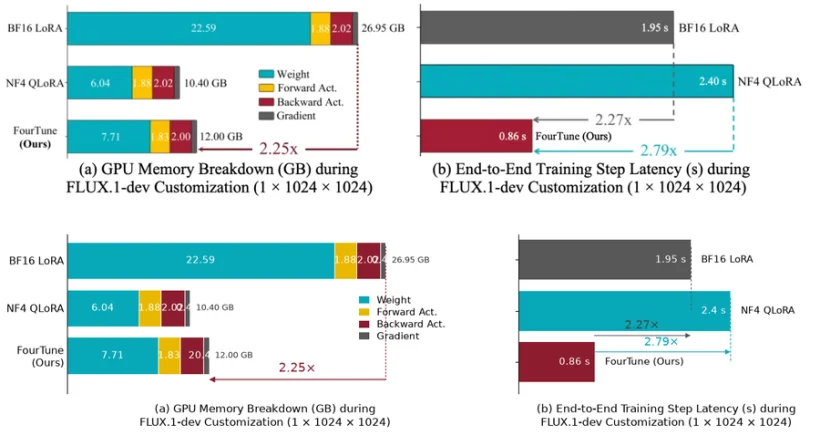
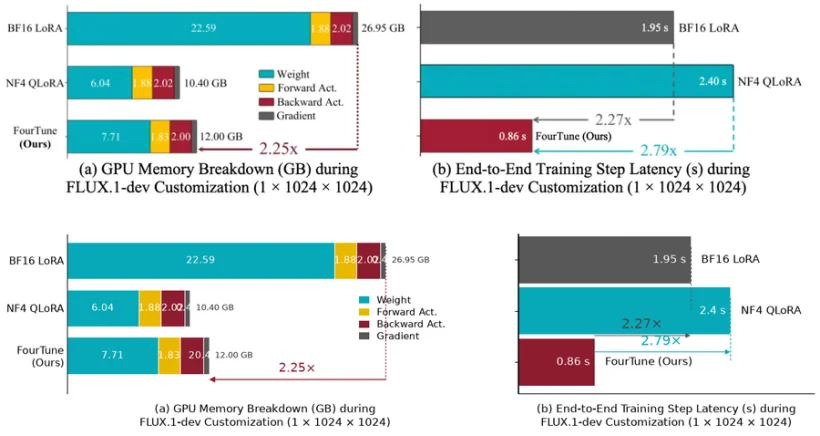
improve(replicas): 第五十二轮 —— 01 右面板补密度
左右分区探针：
  原图 左 0.306 / 右 0.346
  修前 左 0.292 / 右 0.254  ← 右面板只有 73%
  现在 左 0.292 / 右 0.299  ← 右面板 86%

改动（面板 b）：
- 柱高 0.78 → 0.92
- 柱内数值 11 → 12.5、右侧类别标签 11 → 12.5
- 倍数标注 13 → 15（2.27× / 2.79×）
- 补左轴线 linewidth 1.4 + 刻度 length 4

整体墨迹 88% → 95%

diff --git a/tools/figlab/replicas.py b/tools/figlab/replicas.py
@@ -121,20 +121,22 @@ def fig01():
     # ---- (b) 端到端延迟
     lat = [("FourTune (Ours)", 0.86, DRED), ("NF4 QLoRA", 2.40, TEAL), ("BF16 LoRA", 1.95, GRAY)]
     for y, (lab, v, c) in zip([0, 1, 2], lat):
-        ax2.barh(y, v, height=0.78, color=c, edgecolor="none")
+        ax2.barh(y, v, height=0.92, color=c, edgecolor="none")
         ax2.text(v - 0.05, y, ("%g s" % v), ha="right", va="center",
-                 color="white", fontsize=11)
+                 color="white", fontsize=12.5)
     # 参考图：类别标签在条形右侧
     ax2.set_yticks([0, 1, 2], [])
     ax2.set_xlim(0, 3.35)
     ax2.set_ylim(-0.62, 2.5)
     ax2.set_xticks([])
-    for sp in ("top", "right", "bottom"):
+    for sp in ("top", "right"):
         ax2.spines[sp].set_visible(False)
+    ax2.spines["left"].set_linewidth(1.4)
+    ax2.tick_params(axis="y", length=4)
     for y, lab in [(0, "FourTune (Ours)"), (1, "NF4 QLoRA"), (2, "BF16 LoRA")]:
         val = {0: 0.86, 1: 2.40, 2: 1.95}[y]
         ax2.text(val + (2.42 - val) * 0 + 0.12 if y == 0 else val + 0.12, y, lab,
-                 va="center", ha="left", fontsize=11)
+                 va="center", ha="left", fontsize=12.5)
 
     # 虚线连接：BF16 末端 → NF4 行；NF4 末端 → 下方
     ax2.plot([1.95, 1.95], [2.26, 1.0], ls=(0, (3, 2)), lw=0.9, color=GRAY)
@@ -143,12 +145,12 @@ def fig01():
     ax2.annotate("", xy=(0.86, 0.52), xytext=(1.95, 0.52),
                  arrowprops=dict(arrowstyle="<|-", color="#555555", lw=0.9,
                                  mutation_scale=11, shrinkA=0, shrinkB=0))
-    ax2.text(1.40, 0.60, "2.27×", ha="center", va="bottom", fontsize=13, color="#444444")
+    ax2.text(1.40, 0.60, "2.27×", ha="center", va="bottom", fontsize=15, color="#444444")
 
     ax2.annotate("", xy=(0.86, 0.20), xytext=(2.40, 0.20),
                  arrowprops=dict(arrowstyle="<|-", color=TEAL, lw=0.9,
                                  mutation_scale=11, shrinkA=0, shrinkB=0))
-    ax2.text(1.62, 0.27, "2.79×", ha="center", va="bottom", fontsize=13, color=TEAL)
+    ax2.text(1.62, 0.27, "2.79×", ha="center", va="bottom", fontsize=15, color=TEAL)
 
     ax2.set_xlabel("(b) End-to-End Training Step Latency (s) during\n"
                     "FLUX.1-dev Customization (1 × 1024 × 1024)",
